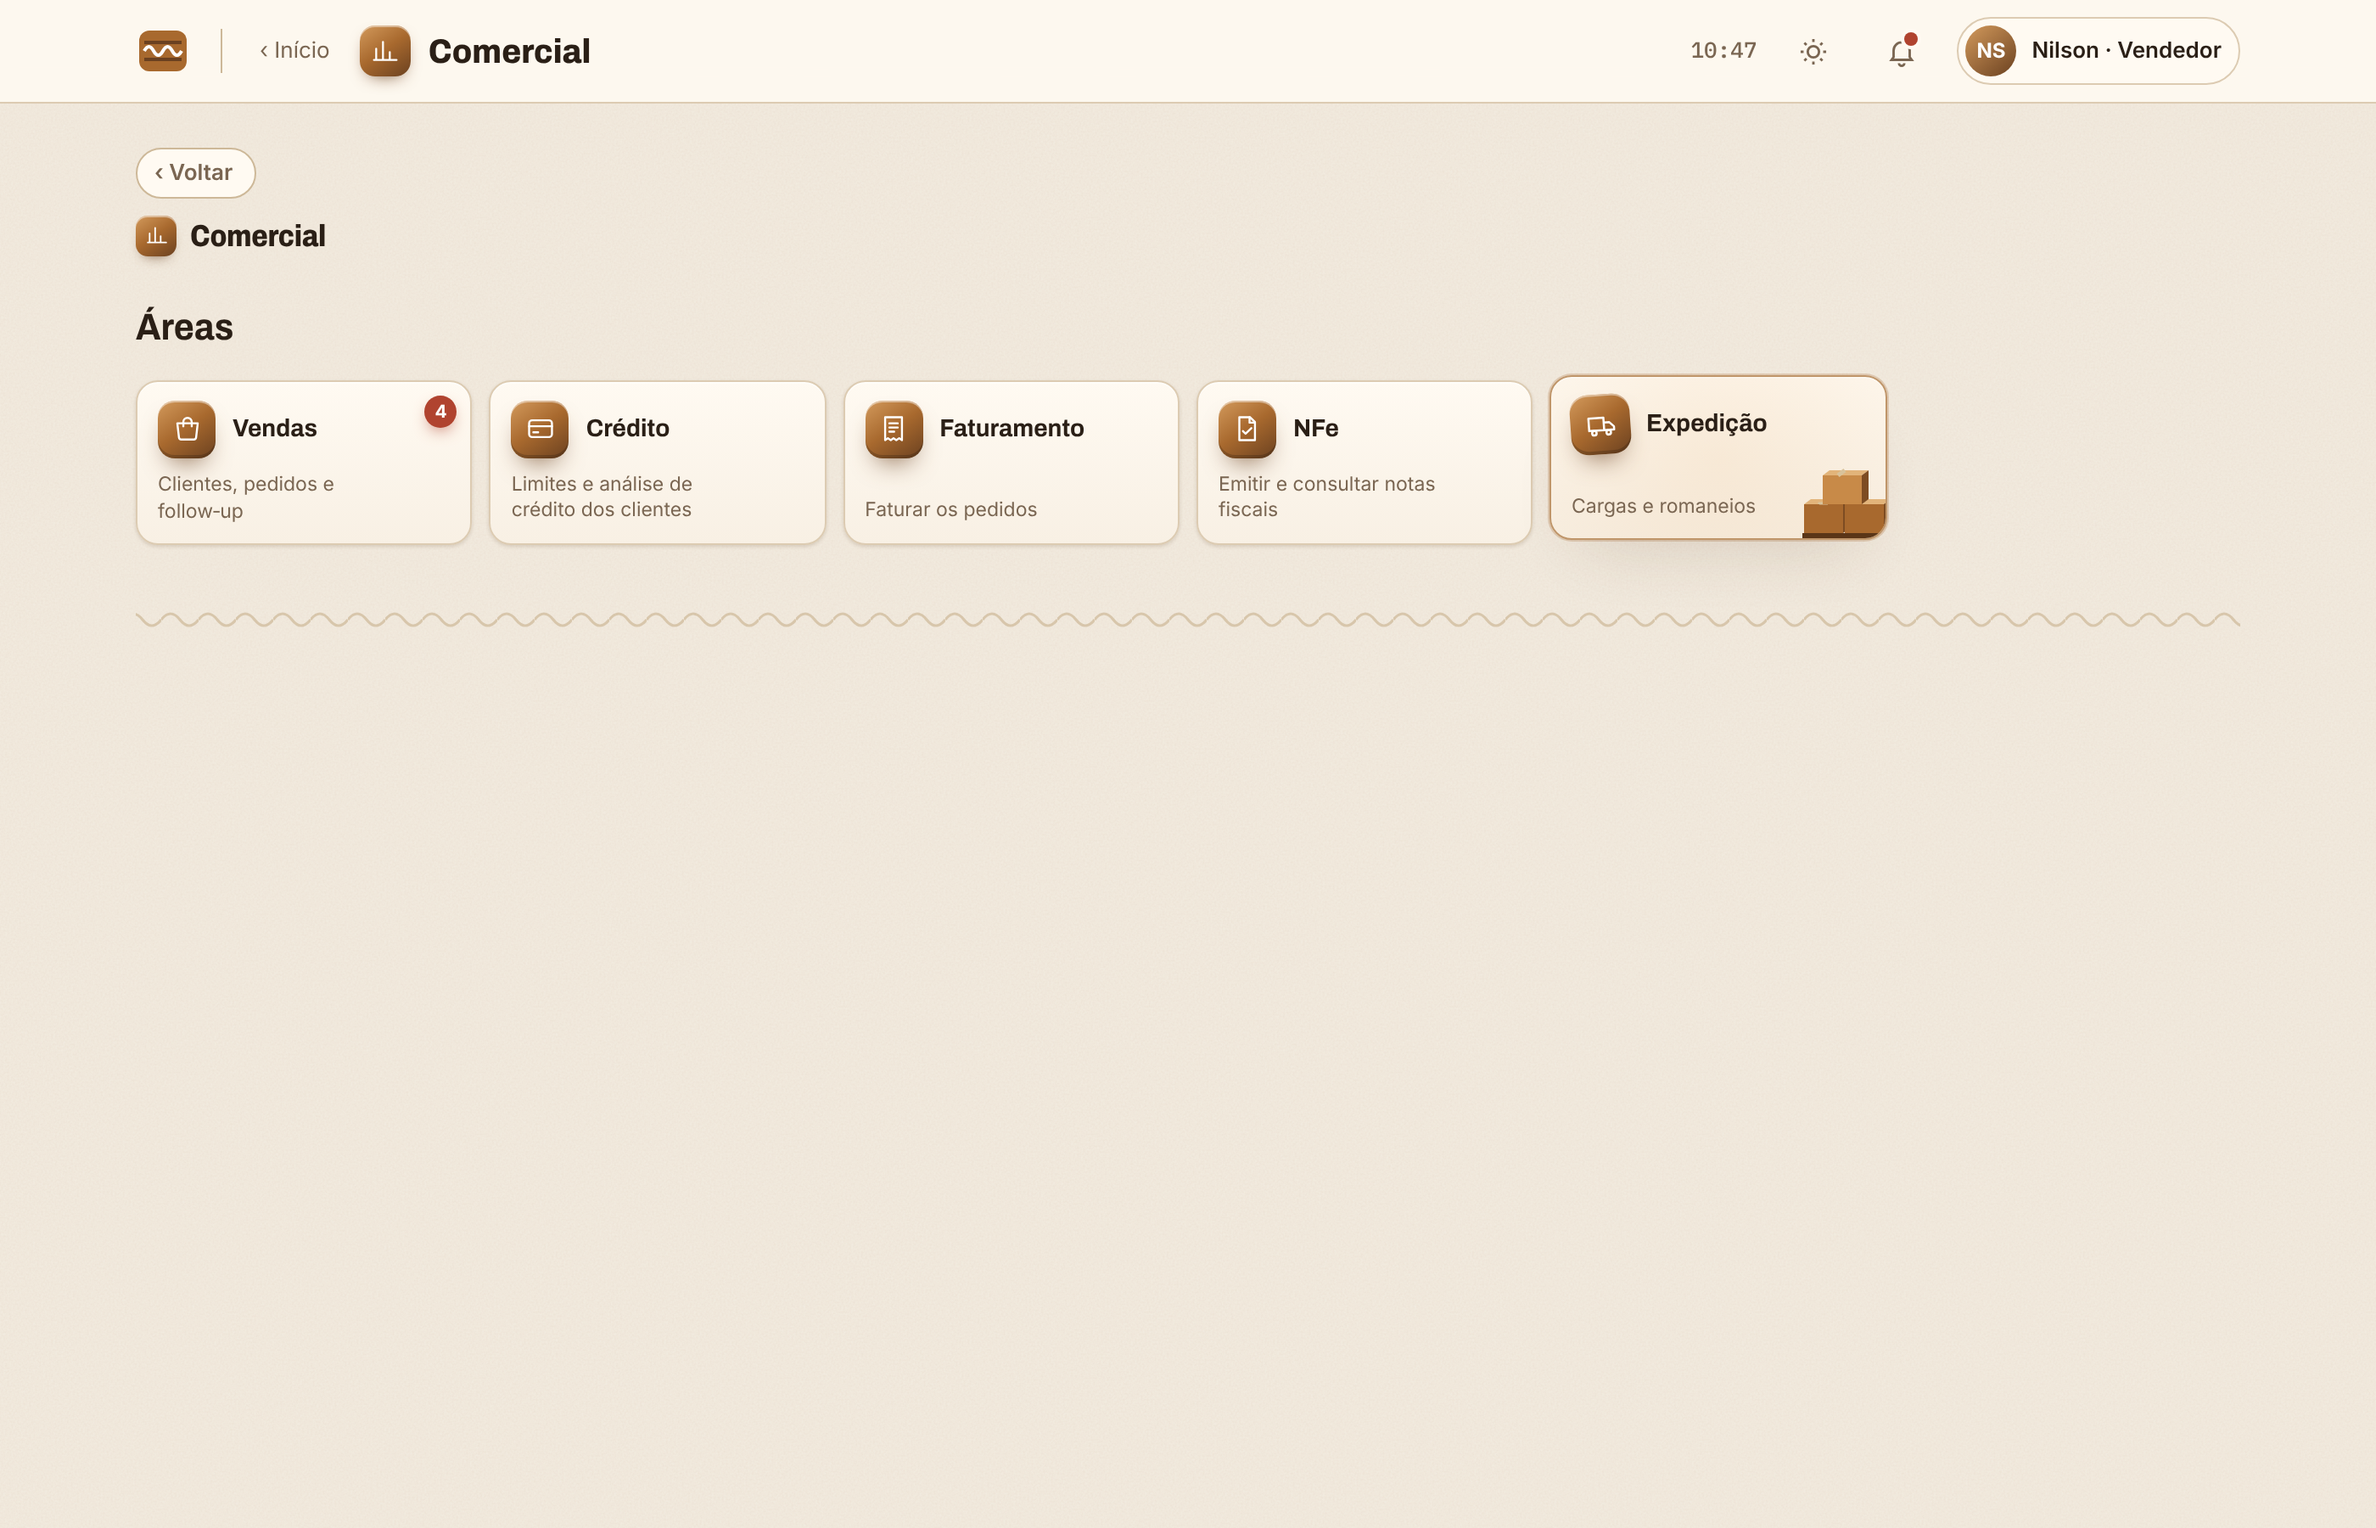
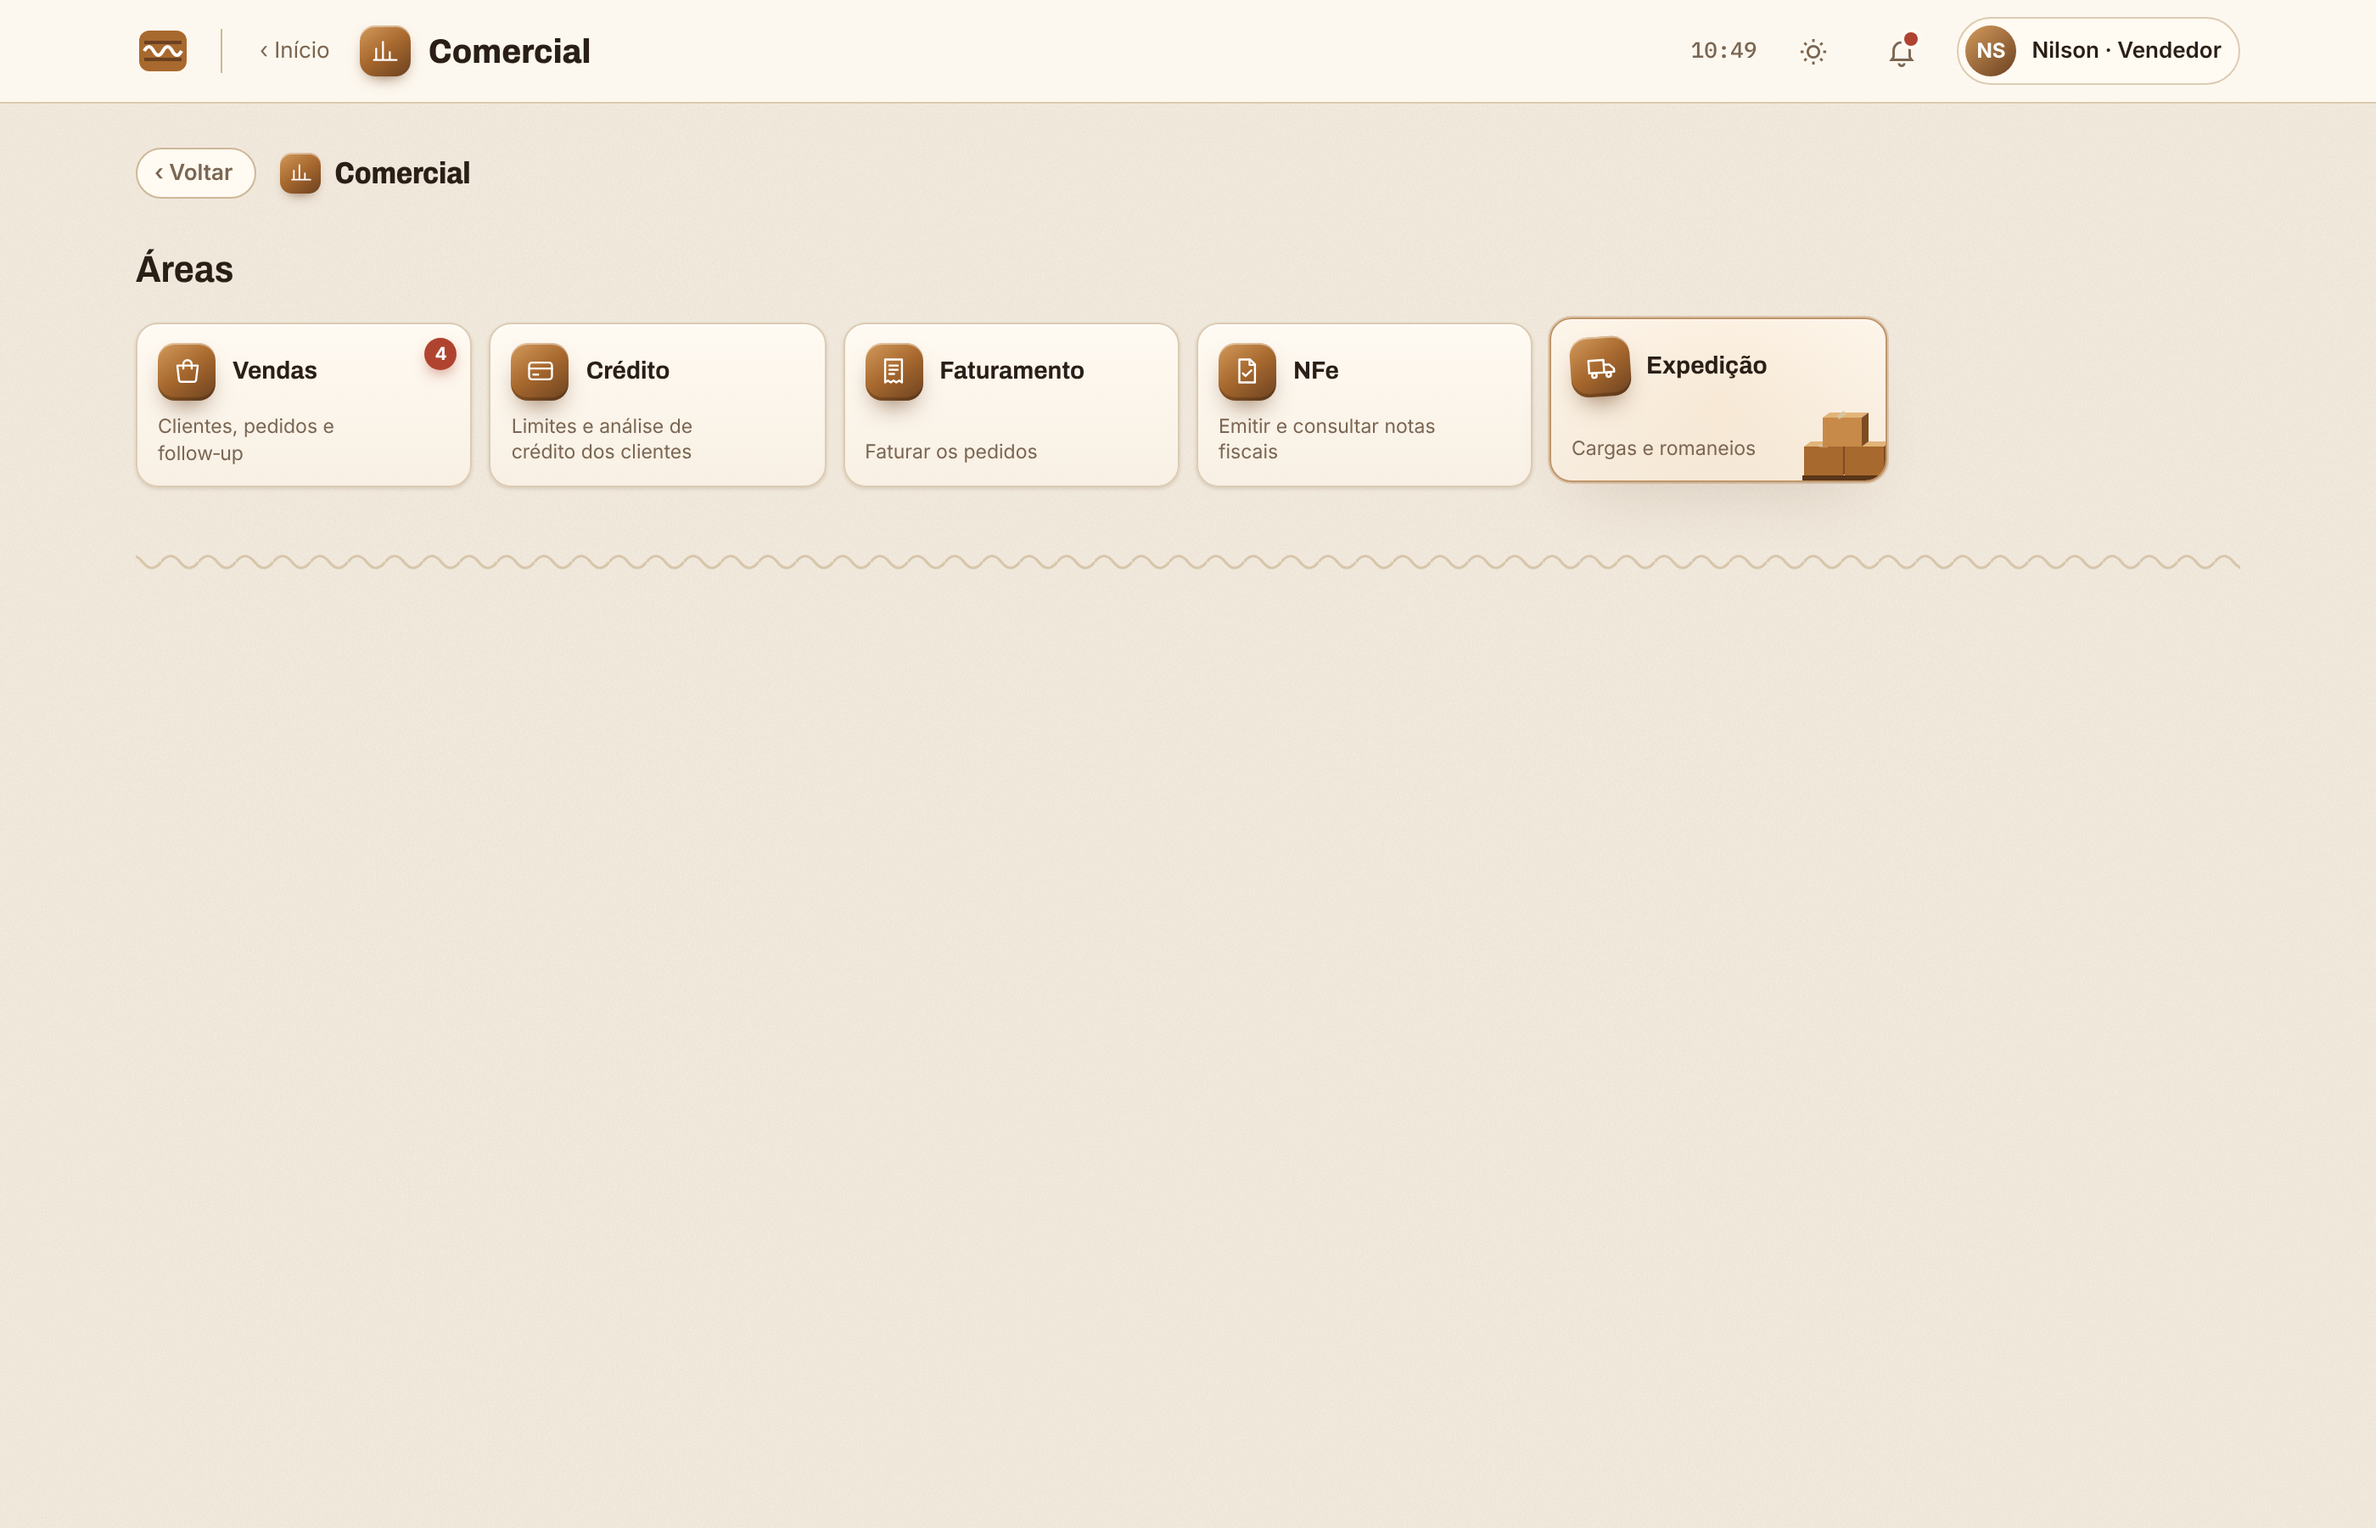
Tela de áreas: Voltar, ícone e nome do módulo na mesma linha
Claude-Session: https://claude.ai/code/session_015kL8p4eCaL1huCADCSMStj

Changed region(s): [[0.0311, 0.0933, 0.8079, 0.3733]]

diff --git a/prototipo/tela-inicial-e-comercial.html b/prototipo/tela-inicial-e-comercial.html
@@ -233,7 +233,8 @@ h2{font-family:var(--f-display);font-weight:700;font-stretch:92%;font-size:22px;
 .tile:hover,.tile:focus-visible{transform:translateY(-3px) rotateX(var(--rx)) rotateY(var(--ry))}
 .tile:hover .ic{transform:rotate(-4deg) scale(1.04)}
 /* título do módulo na tela de áreas: 60% menor */
-#view-areas .mh{gap:8px;margin-top:10px}
+#view-areas .mh{gap:8px;margin-top:0}
+#view-areas .mh .voltar{margin-right:6px}
 #view-areas .mh .ic{width:24px;height:24px;border-radius:7px;box-shadow:0 1px 0 rgba(255,255,255,.45) inset,0 4px 8px -5px var(--kraft-deep)}
 #view-areas .mh .ic svg{width:13px;height:13px}
 #view-areas .mh h1{font-size:18px;letter-spacing:-.01em}
@@ -627,8 +628,7 @@ table.cli{width:100%;border-collapse:collapse;min-width:760px;font-size:14px}
 <main id="view-areas" hidden>
   <section class="mod-head gut">
     <div class="max">
-      <button class="voltar" id="voltarBtn" type="button">‹ Voltar</button>
-      <div class="mh"><span class="ic" id="areasIc"></span><h1 id="areasTit">Comercial</h1></div>
+      <div class="mh"><button class="voltar" id="voltarBtn" type="button">‹ Voltar</button><span class="ic" id="areasIc"></span><h1 id="areasTit">Comercial</h1></div>
     </div>
   </section>
   <section class="gut">

diff --git a/README.md b/README.md
@@ -78,7 +78,7 @@ do sistema (com IA) respeitando o que cada usuário pode acessar.
 ### Áreas do módulo (padrão para todos)
 - Clicar num módulo que tem áreas abre a **tela de áreas**, no **mesmo layout da tela
   inicial**: botão **‹ Voltar** (volta para a tela de onde a pessoa veio; se abriu direto,
-  para o Início), título do módulo **pequeno** (ícone e nome, sem frases de apoio) e
+  para o Início), título do módulo **pequeno** (ícone e nome na mesma linha do Voltar, sem frases de apoio) e
   uma grade de cartões compactos, um por área, com a mesma caixinha
   ao passar o mouse (pilha no pallet em Expedição e Materiais, onda em PCP e Reporte de
   produção, faca em Engenharia industrial) e o selo de pendências de cada área.
